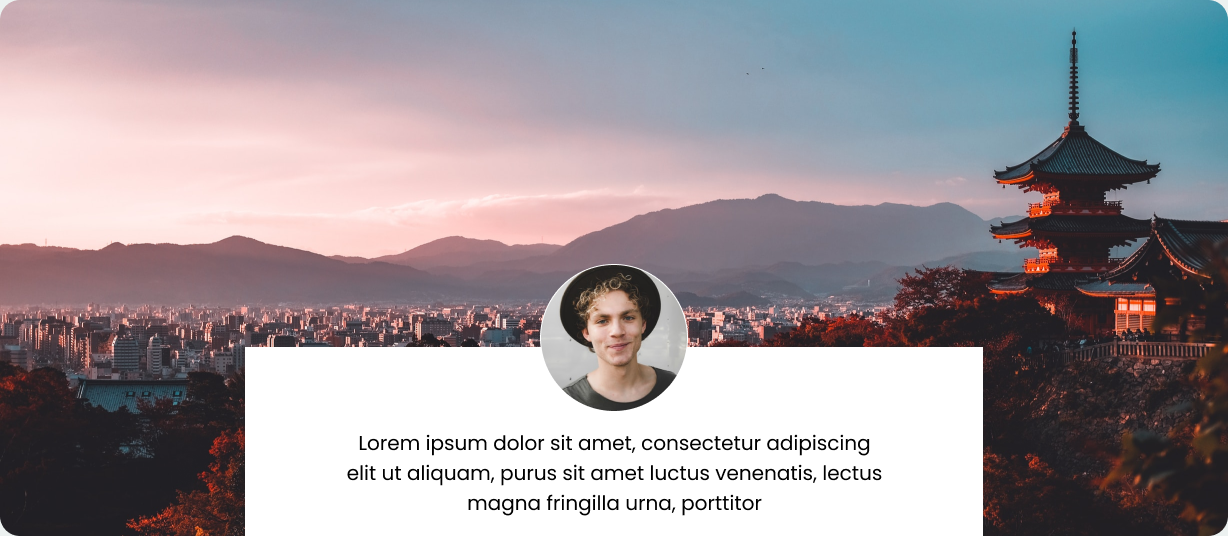
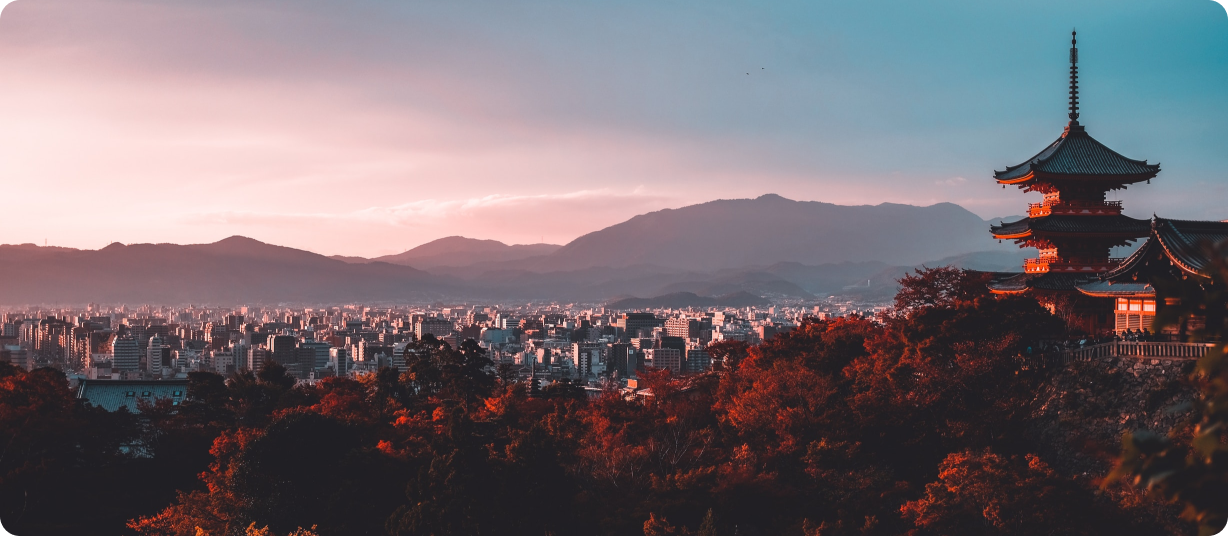
added few changes to some pages and some positioning

Changed region(s): [[0.1857, 0.4776, 0.8046, 1.0]]

diff --git a/style.css b/style.css
@@ -9,7 +9,7 @@
   background: url(./Assets/stefan-stefancik-6whwCHgsMiA-unsplash\ 1.png)
     no-repeat center;
   background-size: cover;
-  height: 900px;
+  height: 800px;
   width: 100%;
   padding-top: 20px;
   color: white;
@@ -42,7 +42,7 @@
 }
 .first_section .article {
   /* outline: dotted; */
-  margin-top: 250px;
+  margin-top: 220px;
   text-align: center;
 }
 .article .text_box {
@@ -184,12 +184,29 @@
   height: 600px;
   gap: 120px;
   width: 100%;
-
+  position: relative;
   /* outline: dotted; */
 }
 .map {
   width: 50%;
 }
+.destinaions > img {
+  position: absolute;
+  /* left: 20%; */
+}
+.blue_point_1 {
+  top: 52%;
+  left: 24%;
+}
+.blue_point_2 {
+  top: 64%;
+  left: 30%;
+}
+.blue_point_3 {
+  bottom: 11%;
+  left: 42%;
+}
+
 .map img {
   height: 600px;
   /* outline: dotted; */
@@ -352,17 +369,46 @@
   height: 800px;
   margin-top: 150px;
   background: #ecf1f0;
+  position: relative;
 }
 .seventh_section h1 {
   text-align: center;
   padding-top: 60px;
 }
-.seventh_section div {
+.seventh_section .images {
   display: flex;
   align-items: center;
   gap: 60px;
   overflow-x: hidden;
   margin-top: 60px;
+}
+.seventh_section > img {
+  z-index: 1;
+  height: 120px;
+  position: absolute;
+  left: 49%;
+  bottom: 230px;
+}
+.seventh_section .texts {
+  background-color: white;
+  box-shadow: 1px 5px 8px rgba(128, 128, 128, 0.414);
+  /* outline: dotted; */
+  height: 220px;
+  width: 700px;
+  padding: 50px 100px;
+  text-align: center;
+  position: absolute;
+  bottom: 55px;
+  left: 30%;
+}
+.seventh_section .texts p {
+  font-size: 20px;
+  line-height: 30px;
+}
+.seventh_section .texts h4 {
+  font-size: 22px;
+  line-height: 33px;
+  margin-top: 20px;
 }
 .eigth_section {
   display: flex;
@@ -370,6 +416,13 @@
   align-items: center;
   justify-content: center;
   padding: 50px;
+  position: relative;
+}
+.eigth_section .telegram_icon {
+  height: 70px;
+  position: absolute;
+  top: 24px;
+  right: 240px;
 }
 .eigth_section .information {
   width: 1000px;
@@ -414,8 +467,14 @@
   color: white;
   border-radius: 10px;
 }
+.stars {
+  height: 200px;
+  position: absolute;
+  right: 140px;
+  bottom: 44%;
+}
 .footer {
-  margin-top: 120px;
+  margin-top: 150px;
   display: flex;
   gap: 170px;
 }

diff --git a/index.html b/index.html
@@ -99,6 +99,10 @@
                 <div class="map">
                     <img src="./Assets/world_map_PNG28 2.jpg" alt="">
                 </div>
+                <img class="blue_point_1" src="./Assets/Ellipse 17.png" alt="">
+                <img class="blue_point_2" src="./Assets/Ellipse 17.png" alt="">
+                <img class="blue_point_3" src="./Assets/Ellipse 17.png" alt="">
+
                 <div class="destinaion_wrap">
                     <div class="destinaion_cards">
                         <img src="./Assets/Thailand.jpg" alt="">
@@ -217,13 +221,19 @@
         </section>
         <section class="seventh_section">
             <h1>What People Say About Us</h1>
-            <div>
+            <div class="images">
                 <img src="./Assets/image 29.png" alt="">
                 <img src="./Assets/image 22.png" alt="">
                 <img src="./Assets/image 30.jpg" alt="">
             </div>
+            <img src="./Assets/Ellipse 30.png" alt="">
+            <div class="texts">
+                <p>Lorem ipsum dolor sit amet, consectetur adipiscing elit ut aliquam, purus sit amet luctus venenatis, lectus magna fringilla urna, porttitor</p>
+                <h4>-Jeo Stanlee</h4>
+            </div>
         </section>
         <section class="eigth_section">
+            <img class="telegram_icon" src="./Assets/Group 77.png" alt="">
             <div class="information">
                 <h2>Subscribe to get information, latest news and other <br>interesting offers about Cobham</h2>
                 <div>
@@ -231,6 +241,7 @@
                     <button>Subscribe</button>
                 </div>
             </div>
+            <img class="stars" src="./Assets/Group 5.png" alt="">
             <div class="footer">
                 <div class="footer_1">
                     <img src="./Assets/Travel Goo 1.png" alt="">
